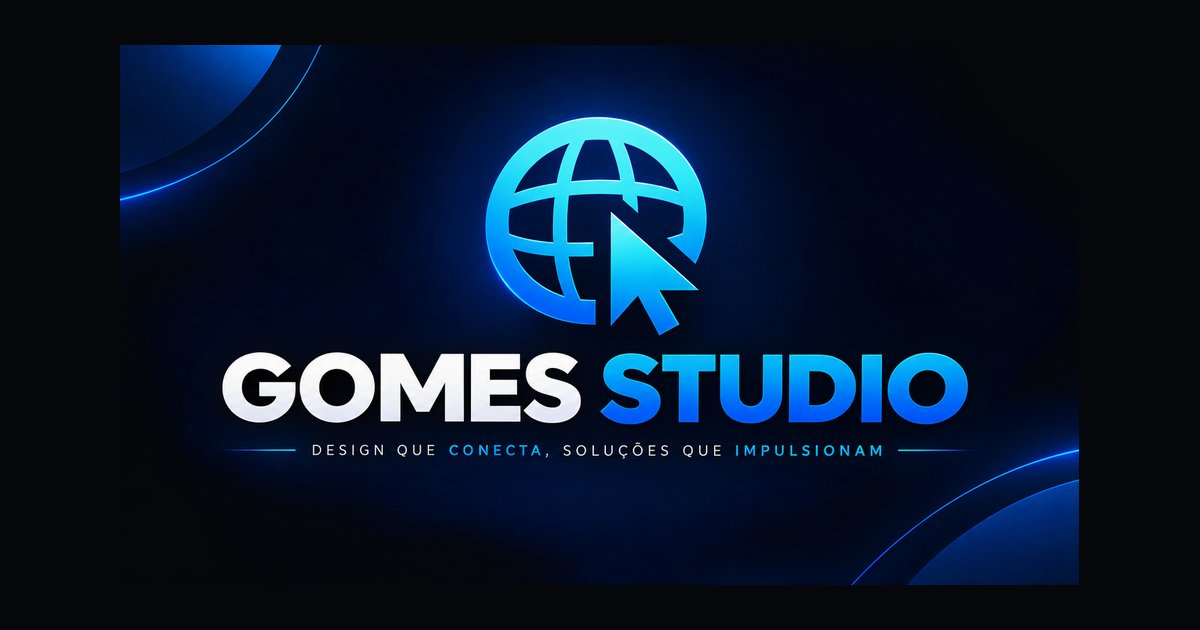
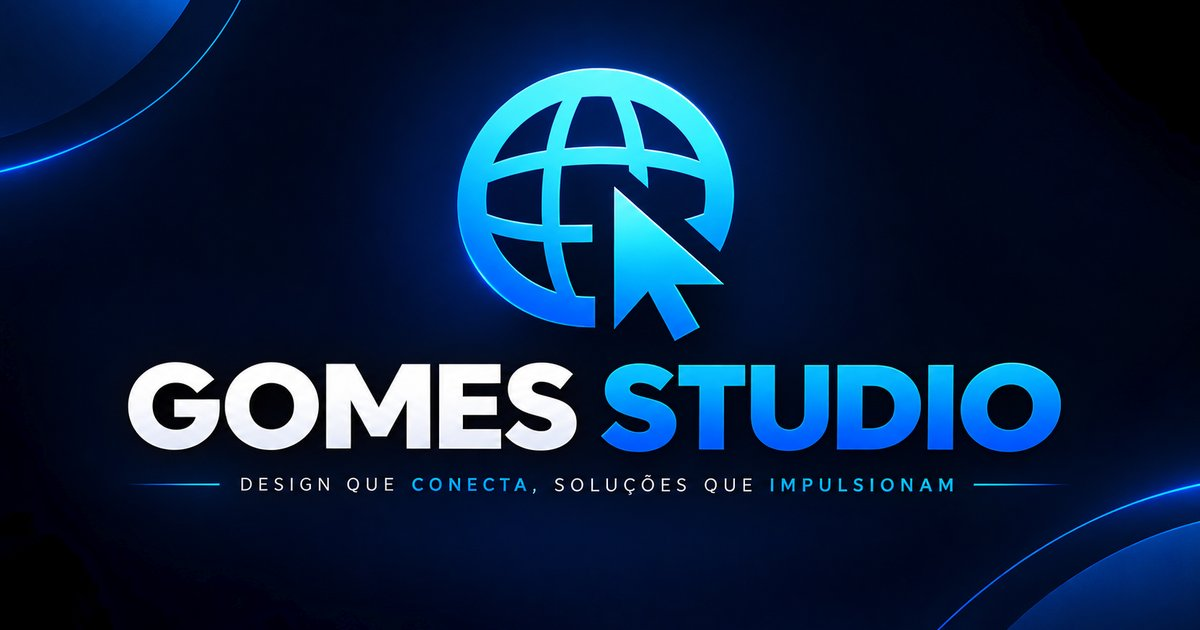
Changes

diff --git a/src/routes/index.tsx b/src/routes/index.tsx
@@ -18,12 +18,12 @@ import { ImageModal } from "../components-site/ImageModal";
 import { ProjectDetailModal } from "../components-site/ProjectDetailModal";
 import type { ProjectItem } from "../types";
 
-const TITLE = "Gomes Studio | Design Digital & Soluções Web Premium";
+const TITLE = "Gomes Studio | Criação de Sites Profissionais";
 const DESCRIPTION =
-  "Estúdio especializado em landing pages, páginas profissionais e experiências digitais que apresentam empresas, produtos e serviços com clareza e personalidade.";
+  "Criamos sites profissionais para valorizar seu negócio, apresentar seus serviços e facilitar o contato com seus clientes pelo WhatsApp.";
 
-const SITE_URL = "https://gomesstudio.lovable.app/";
-const SHARE_IMAGE = "https://gomesstudio.lovable.app/assets/brand/gomes-studio-logo.png";
+const SITE_URL = "https://sitegomesstudio.gomes-studio.workers.dev/";
+const SHARE_IMAGE = "https://sitegomesstudio.gomes-studio.workers.dev/og-image.jpg";
 
 export const Route = createFileRoute("/")({
   head: () => ({
@@ -38,7 +38,10 @@ export const Route = createFileRoute("/")({
       { property: "og:site_name", content: "Gomes Studio" },
       { property: "og:locale", content: "pt_BR" },
       { property: "og:image", content: SHARE_IMAGE },
-      { property: "og:image:alt", content: "Logo da Gomes Studio" },
+      { property: "og:image:width", content: "1200" },
+      { property: "og:image:height", content: "630" },
+      { property: "og:image:type", content: "image/jpeg" },
+      { property: "og:image:alt", content: "Logo da Gomes Studio — Criação de Sites Profissionais" },
       { name: "twitter:card", content: "summary_large_image" },
       { name: "twitter:title", content: TITLE },
       { name: "twitter:description", content: DESCRIPTION },
